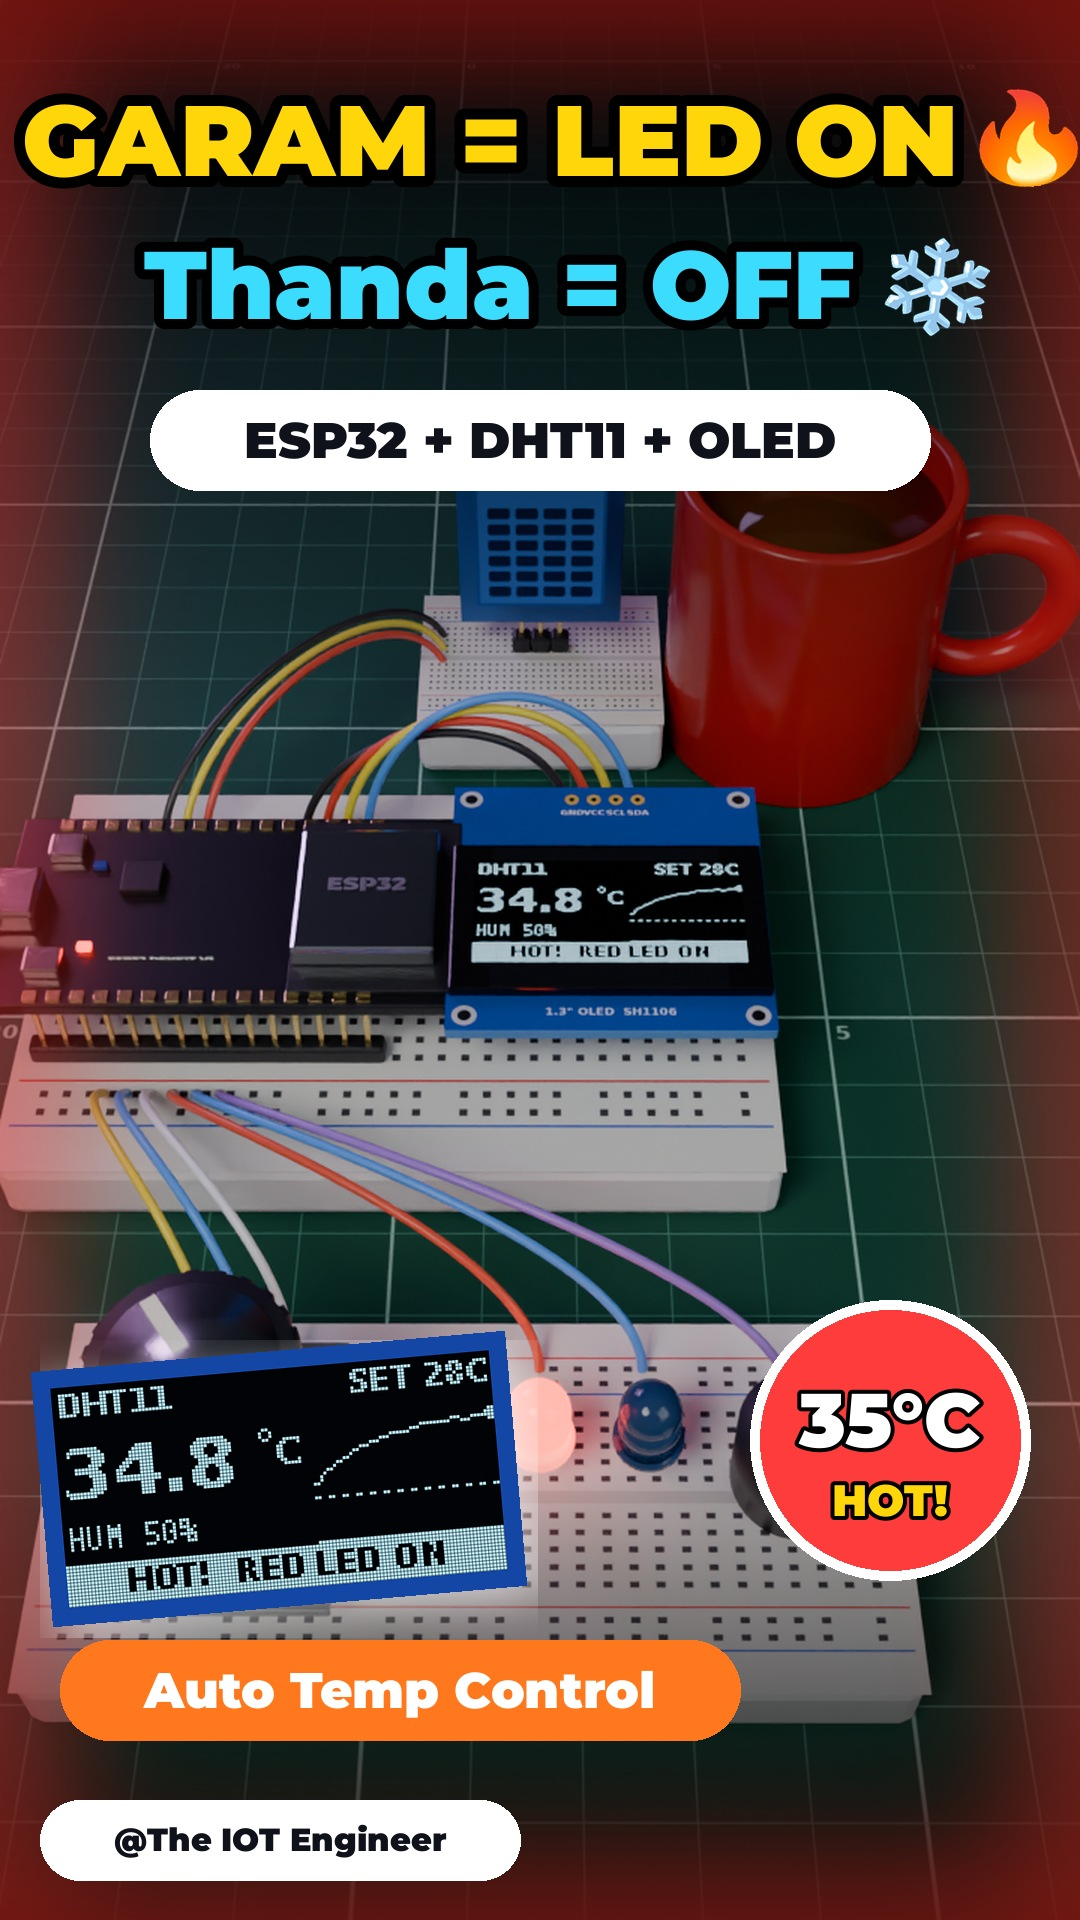
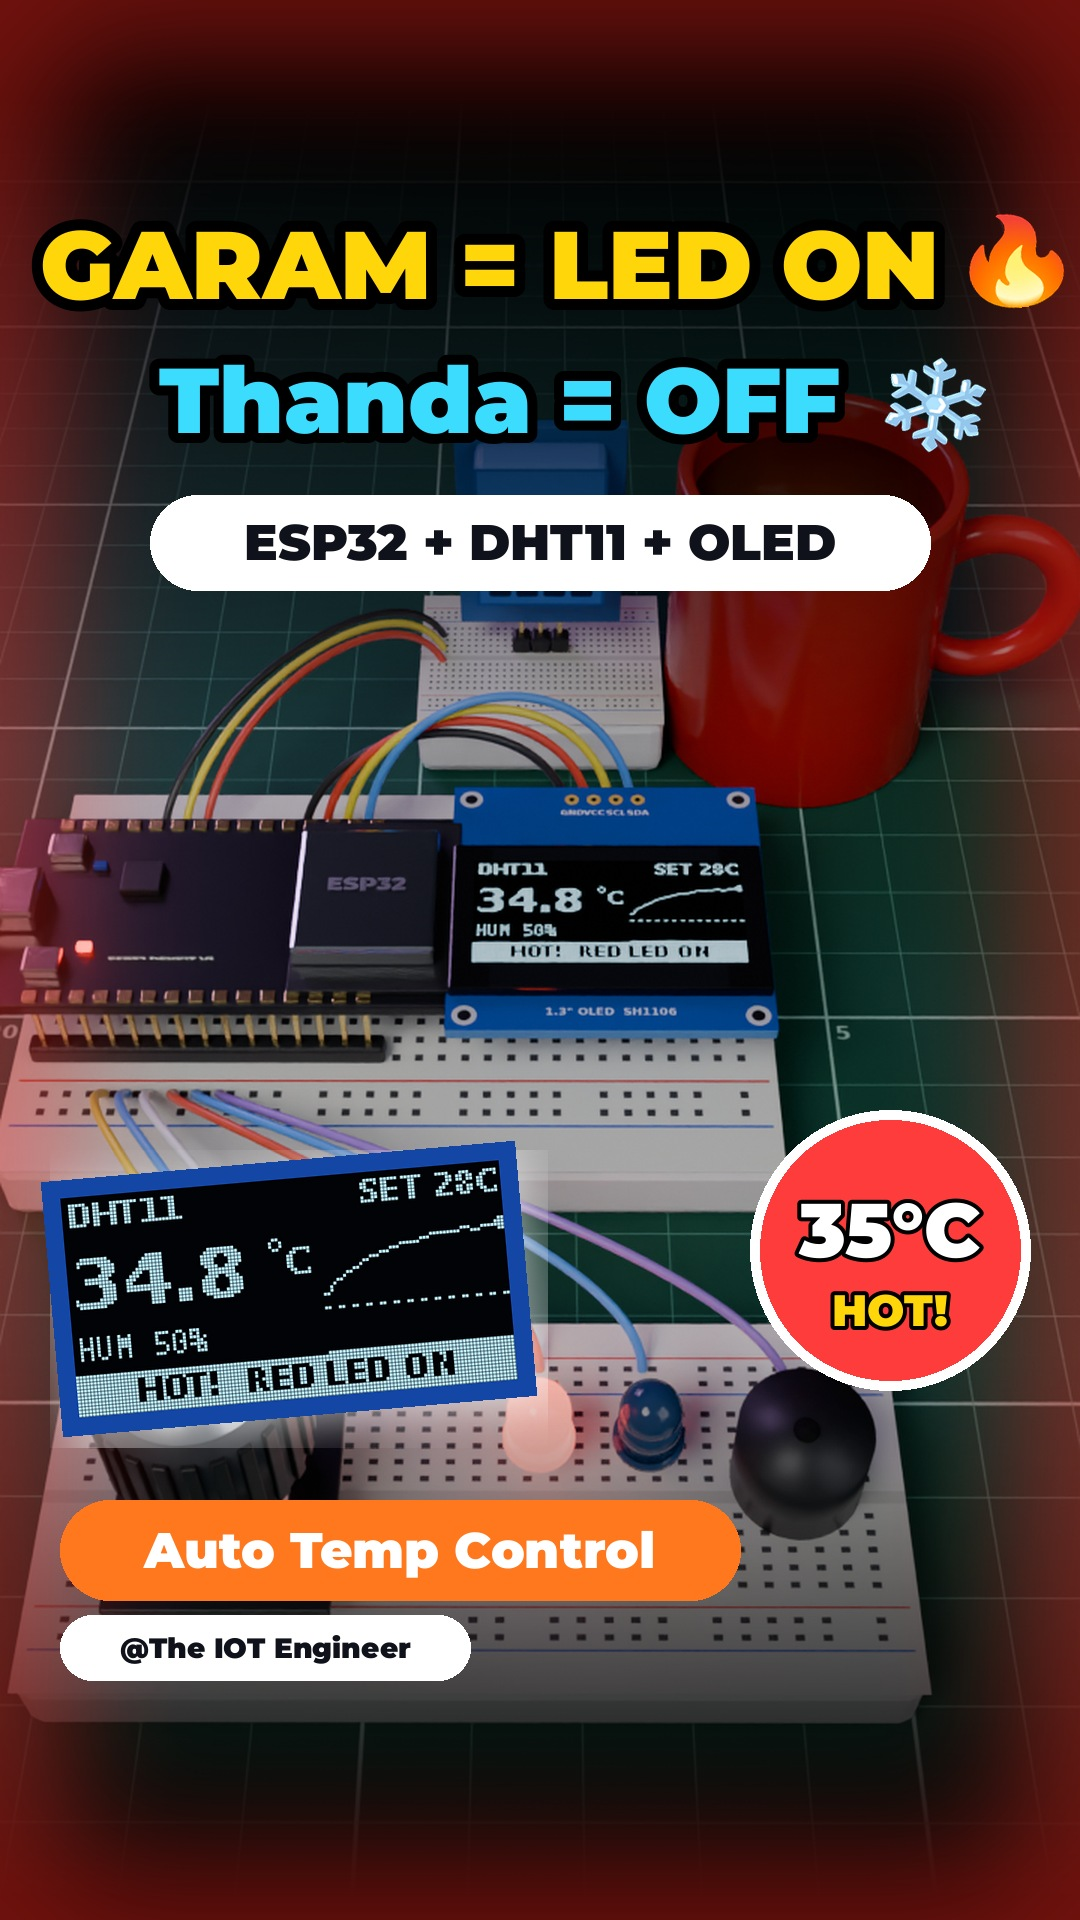
Thumbnails: keep all text inside the desktop Shorts safe band (y 190..1690)
Desktop YouTube crops ~140 px off the top and bottom of a Shorts cover, which cut the titles;
edit14 / edit16 / edit17 covers re-laid out so every word stays visible on mobile and laptop.

Claude-Session: https://claude.ai/code/session_01CESTBAn4oodXJcbmRSTh5m

diff --git a/edit16/thumbnail/make_thumbnail.py b/edit16/thumbnail/make_thumbnail.py
@@ -19,7 +19,7 @@ YEL, WHT, INK, RED, CYAN = (255, 214, 10), (255, 255, 255), (15, 18, 26), (255, 
 
 canvas = Image.open(FRAME).convert("RGB").resize((W, H), Image.LANCZOS).convert("RGBA")
 g = Image.new("L", (1, H))
-g.putdata([int(235 * max(0, 1 - y / 720)) if y < 720 else int(210 * max(0, (y - 1450) / 470)) for y in range(H)])
+g.putdata([int(235 * max(0, 1 - (y - 150) / 600)) if y < 750 else int(210 * max(0, (y - 1350) / 450)) for y in range(H)])
 canvas.alpha_composite(Image.merge("RGBA", (*[Image.new("L", (W, H), 0)] * 3, g.resize((W, H)))))
 red = Image.new("L", (W, H), 0)                                    # warm edge glow
 ImageDraw.Draw(red).rectangle((0, 0, W, H), outline=255, width=60)
@@ -43,22 +43,22 @@ box = Image.new("RGBA", (476, 256), (20, 70, 165, 255))
 box.paste(ol, (18, 18))
 box = box.rotate(5, expand=True, resample=Image.BICUBIC)
 canvas.alpha_composite(Image.merge("RGBA", (*[Image.new("L", box.size, 255)] * 3, box.split()[3].point(lambda v: min(v, 150))))
-                       .filter(ImageFilter.GaussianBlur(20)), (40, 1340))
-canvas.alpha_composite(box, (30, 1330))
+                       .filter(ImageFilter.GaussianBlur(20)), (50, 1150))
+canvas.alpha_composite(box, (40, 1140))
 
 d = ImageDraw.Draw(canvas)
-text(d, (W // 2 - 50, 140), "GARAM = LED ON", 100, YEL, 11)
-canvas.alpha_composite(emoji("🔥", 100, 8), (W - 110, 80))
-text(d, (W // 2 - 40, 285), "Thanda = OFF", 96, CYAN, 10)
-canvas.alpha_composite(emoji("❄", 100, -8), (W - 200, 230))
-d.rounded_rectangle((150, 390, W - 150, 490), 50, fill=WHT)
-d.text((W // 2, 440), "ESP32 + DHT11 + OLED", font=ImageFont.truetype(FONT, 50), fill=INK, anchor="mm")
-d.ellipse((W - 330, 1300, W - 50, 1580), fill=RED, outline=WHT, width=10)          # heat badge
-d.text((W - 190, 1420), "35°C", font=ImageFont.truetype(FONT, 76), fill=WHT, anchor="mm", stroke_width=4, stroke_fill=(0, 0, 0))
-d.text((W - 190, 1500), "HOT!", font=ImageFont.truetype(FONT, 44), fill=YEL, anchor="mm", stroke_width=4, stroke_fill=(0, 0, 0))
-d.rounded_rectangle((60, 1640, 740, 1740), 50, fill=(255, 120, 30))
-d.text((400, 1690), "Auto Temp Control", font=ImageFont.truetype(FONT, 50), fill=WHT, anchor="mm")
-d.rounded_rectangle((40, 1800, 520, 1880), 40, fill=WHT)
-d.text((280, 1840), "@The IOT Engineer", font=ImageFont.truetype(FONT, 32), fill=INK, anchor="mm")
+text(d, (W // 2 - 50, 265), "GARAM = LED ON", 96, YEL, 11)
+canvas.alpha_composite(emoji("🔥", 96, 8), (W - 120, 205))
+text(d, (W // 2 - 40, 400), "Thanda = OFF", 92, CYAN, 10)
+canvas.alpha_composite(emoji("❄", 96, -8), (W - 200, 350))
+d.rounded_rectangle((150, 495, W - 150, 590), 48, fill=WHT)
+d.text((W // 2, 542), "ESP32 + DHT11 + OLED", font=ImageFont.truetype(FONT, 50), fill=INK, anchor="mm")
+d.ellipse((W - 330, 1110, W - 50, 1390), fill=RED, outline=WHT, width=10)          # heat badge
+d.text((W - 190, 1230), "35°C", font=ImageFont.truetype(FONT, 76), fill=WHT, anchor="mm", stroke_width=4, stroke_fill=(0, 0, 0))
+d.text((W - 190, 1310), "HOT!", font=ImageFont.truetype(FONT, 44), fill=YEL, anchor="mm", stroke_width=4, stroke_fill=(0, 0, 0))
+d.rounded_rectangle((60, 1500, 740, 1600), 50, fill=(255, 120, 30))
+d.text((400, 1550), "Auto Temp Control", font=ImageFont.truetype(FONT, 50), fill=WHT, anchor="mm")
+d.rounded_rectangle((60, 1615, 470, 1680), 33, fill=WHT)
+d.text((265, 1648), "@The IOT Engineer", font=ImageFont.truetype(FONT, 28), fill=INK, anchor="mm")
 canvas.convert("RGB").save(OUT, quality=93)
 print("wrote", OUT)

diff --git a/edit14/thumbnail/make_thumbnail.py b/edit14/thumbnail/make_thumbnail.py
@@ -1,5 +1,5 @@
 #!/usr/bin/env python3
-"""1080x1920 Shorts thumbnail for the ESP32 + OLED rotary-encoder LED flow: rainbow LED row + knob,
+"""1080x1920 Shorts thumbnail (all words inside y = 190..1690: desktop YouTube crops the top / bottom) for the ESP32 + OLED rotary-encoder LED flow: rainbow LED row + knob,
 OLED inset (step counter + arrows), big hook text. Optional args: <background frame> <oled frame>."""
 import os
 import sys
@@ -18,7 +18,7 @@ YEL, WHT, INK, RED = (255, 214, 10), (255, 255, 255), (15, 18, 26), (255, 60, 60
 
 canvas = Image.open(FRAME).convert("RGB").resize((W, H), Image.LANCZOS).convert("RGBA")
 g = Image.new("L", (1, H))
-g.putdata([int(235 * max(0, 1 - y / 720)) if y < 720 else int(210 * max(0, (y - 1450) / 470)) for y in range(H)])
+g.putdata([int(235 * max(0, 1 - (y - 150) / 600)) if y < 750 else int(210 * max(0, (y - 1350) / 450)) for y in range(H)])
 canvas.alpha_composite(Image.merge("RGBA", (*[Image.new("L", (W, H), 0)] * 3, g.resize((W, H)))))
 
 
@@ -34,25 +34,25 @@ def text(d, xy, s, size, fill, stroke=10):
 
 
 # OLED radar inset with a glowing frame
-ol = Image.open(OLEDF).convert("RGB").resize((560, 280), Image.LANCZOS)
-box = Image.new("RGBA", (600, 320), (20, 70, 165, 255))
-box.paste(ol, (20, 20))
+ol = Image.open(OLEDF).convert("RGB").resize((480, 240), Image.LANCZOS)
+box = Image.new("RGBA", (516, 276), (20, 70, 165, 255))
+box.paste(ol, (18, 18))
 box = box.rotate(-5, expand=True, resample=Image.BICUBIC)
 glow = Image.new("RGBA", box.size)
 glow.putalpha(box.split()[3])
 canvas.alpha_composite(Image.merge("RGBA", (*[Image.new("L", box.size, 255)] * 3, box.split()[3].point(lambda v: min(v, 150))))
-                       .filter(ImageFilter.GaussianBlur(20)), (W - box.width - 30, 1240))
-canvas.alpha_composite(box, (W - box.width - 40, 1230))
+                       .filter(ImageFilter.GaussianBlur(20)), (W - box.width - 30, 1170))
+canvas.alpha_composite(box, (W - box.width - 40, 1160))
 
 d = ImageDraw.Draw(canvas)
-text(d, (W // 2, 140), "KNOB GHUMAO", 124, YEL, 12)
-text(d, (W // 2, 285), "LED Ka Jaadu!", 96, (255, 120, 220), 10)
-canvas.alpha_composite(emoji("🌈", 120, -8), (40, 330))
-d.rounded_rectangle((200, 390, W - 120, 490), 50, fill=(60, 220, 255))
-d.text(((200 + W - 120) // 2, 440), "ESP32 + Rotary Encoder", font=ImageFont.truetype(FONT, 48), fill=INK, anchor="mm")
-d.rounded_rectangle((60, 1600, 640, 1700), 50, fill=(130, 60, 255))
-d.text((350, 1650), "Rainbow LED Flow", font=ImageFont.truetype(FONT, 46), fill=WHT, anchor="mm")
-d.rounded_rectangle((40, 1790, 520, 1870), 40, fill=WHT)
-d.text((280, 1830), "@The IOT Engineer", font=ImageFont.truetype(FONT, 32), fill=INK, anchor="mm")
+text(d, (W // 2, 265), "KNOB GHUMAO", 116, YEL, 12)
+text(d, (W // 2, 400), "LED Ka Jaadu!", 92, (255, 120, 220), 10)
+canvas.alpha_composite(emoji("🌈", 110, -8), (50, 450))
+d.rounded_rectangle((200, 495, W - 120, 590), 48, fill=(60, 220, 255))
+d.text(((200 + W - 120) // 2, 542), "ESP32 + Rotary Encoder", font=ImageFont.truetype(FONT, 48), fill=INK, anchor="mm")
+d.rounded_rectangle((60, 1500, 640, 1600), 50, fill=(130, 60, 255))
+d.text((350, 1550), "Rainbow LED Flow", font=ImageFont.truetype(FONT, 46), fill=WHT, anchor="mm")
+d.rounded_rectangle((60, 1615, 470, 1680), 33, fill=WHT)
+d.text((265, 1648), "@The IOT Engineer", font=ImageFont.truetype(FONT, 28), fill=INK, anchor="mm")
 canvas.convert("RGB").save(OUT, quality=93)
 print("wrote", OUT)

diff --git a/edit17/thumbnail/make_thumbnail.py b/edit17/thumbnail/make_thumbnail.py
@@ -64,27 +64,29 @@ def badge(d, cx, cy, r):
 src = Image.open(FRAME).convert("RGB")
 
 # ---------------------------------------------------------------- 9:16 Shorts cover (mobile)
+# Desktop YouTube crops ~140 px off the top and bottom of a Shorts cover (and puts a "New" chip
+# top-left), so every word stays inside the safe band y = 190..1690.
 W, H = 1080, 1920
 c = src.resize((W, H), Image.LANCZOS).convert("RGBA")
 g = Image.new("L", (1, H))
-g.putdata([int(235 * max(0, 1 - y / 720)) if y < 720 else int(210 * max(0, (y - 1450) / 470)) for y in range(H)])
+g.putdata([int(235 * max(0, 1 - (y - 150) / 600)) if y < 750 else int(210 * max(0, (y - 1350) / 450)) for y in range(H)])
 c.alpha_composite(Image.merge("RGBA", (*[Image.new("L", (W, H), 0)] * 3, g.resize((W, H)))))
 red_edge(c)
-box, glow = oled_inset(440, 5)
-c.alpha_composite(glow, (40, 1340))
-c.alpha_composite(box, (30, 1330))
+box, glow = oled_inset(420, 5)
+c.alpha_composite(glow, (50, 1150))
+c.alpha_composite(box, (40, 1140))
 d = ImageDraw.Draw(c)
-text(d, (W // 2, 135), "KOI PAAS AAYA?", 104, YEL, 11)
-text(d, (W // 2 - 20, 285), "WARNING!", 130, RED, 12)
-c.alpha_composite(emoji("🚨", 110), (W - 175, 225))
+text(d, (W // 2, 260), "KOI PAAS AAYA?", 96, YEL, 10)
+text(d, (W // 2 - 50, 400), "WARNING!", 124, RED, 12)
+c.alpha_composite(emoji("🚨", 104), (W - 200, 345))
 d = ImageDraw.Draw(c)
-d.rounded_rectangle((110, 390, W - 110, 490), 50, fill=WHT)
-d.text((W // 2, 440), "ESP32 + Ultrasonic + OLED", font=F(48), fill=INK, anchor="mm")
-badge(d, W - 190, 1440, 140)
-d.rounded_rectangle((60, 1640, 820, 1740), 50, fill=(255, 120, 30))
-d.text((440, 1690), "Object Detection Alarm", font=F(48), fill=WHT, anchor="mm")
-d.rounded_rectangle((40, 1800, 520, 1880), 40, fill=WHT)
-d.text((280, 1840), "@The IOT Engineer", font=F(32), fill=INK, anchor="mm")
+d.rounded_rectangle((110, 495, W - 110, 585), 45, fill=WHT)
+d.text((W // 2, 540), "ESP32 + Ultrasonic + OLED", font=F(46), fill=INK, anchor="mm")
+badge(d, W - 190, 1250, 135)
+d.rounded_rectangle((60, 1500, 840, 1600), 50, fill=(255, 120, 30))
+d.text((450, 1550), "Object Detection Alarm", font=F(48), fill=WHT, anchor="mm")
+d.rounded_rectangle((60, 1615, 470, 1680), 33, fill=WHT)
+d.text((265, 1648), "@The IOT Engineer", font=F(28), fill=INK, anchor="mm")
 c.convert("RGB").save(os.path.join(HERE, "thumbnail.jpg"), quality=93)
 
 # ---------------------------------------------------------------- 16:9 (laptop / desktop)
